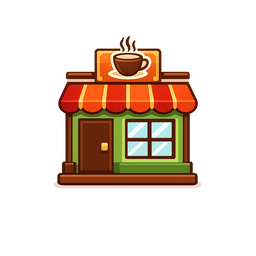
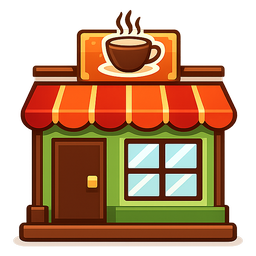
Fix coffee -1 visibility, add sawmill art, enlarge tile images
- Move the +/-1 float outside .tile so a just-spent coffee's exhausted
  dimming no longer fades its own -1 (the reason it was invisible)
- Add sawmill artwork; auto-crop both images to their opaque bbox so the
  building fills the tile, and render images at 94% (was 72%)

diff --git a/src/lib/Grid.svelte b/src/lib/Grid.svelte
@@ -78,11 +78,13 @@
               <span class="ricon">{badge.icon}</span>{stored}
             </div>
           {/if}
-
-          {#if badge && flashing}
-            <div class="plus" style="--rtint:{badge.tint}">{badge.delta}</div>
-          {/if}
         </div>
+
+        <!-- Float lives outside .tile so a just-spent coffee's dimming doesn't
+             also fade its own −1. -->
+        {#if badge && flashing}
+          <div class="plus" style="--rtint:{badge.tint}">{badge.delta}</div>
+        {/if}
       </div>
     {/each}
   </div>
@@ -150,6 +152,7 @@
     position: absolute;
     width: var(--cell);
     height: var(--cell);
+    container-type: size; /* lets the .plus float size itself via cqmin */
     will-change: transform;
   }
   .piece.hidden {

diff --git a/src/lib/BuildingIcon.svelte b/src/lib/BuildingIcon.svelte
@@ -20,8 +20,8 @@
     filter: drop-shadow(0 2px 3px rgba(0, 0, 0, 0.45));
   }
   img {
-    width: 72%;
-    height: 72%;
+    width: 94%;
+    height: 94%;
     object-fit: contain;
     filter: drop-shadow(0 2px 3px rgba(0, 0, 0, 0.45));
   }

diff --git a/src/lib/buildings.js b/src/lib/buildings.js
@@ -1,4 +1,5 @@
 import coffeeShopImg from './assets/coffee-shop.png';
+import sawmillImg from './assets/sawmill.png';
 
 // Building catalogue. The map key is the building's id.
 //   emoji       shown on the tile (see BuildingIcon)
@@ -9,7 +10,7 @@ import coffeeShopImg from './assets/coffee-shop.png';
 //   startStored initial (and per-turn recharge) charge count for `special` tiles
 export const BUILDINGS = {
   farm:    { name: 'Farm',    emoji: '🌾', image: null, tint: '#fbbf24', produces: 'food' },
-  sawmill: { name: 'Sawmill', emoji: '🪚', image: null, tint: '#c98a4b', produces: 'wood' },
+  sawmill: { name: 'Sawmill', emoji: '🪚', image: sawmillImg, tint: '#c98a4b', produces: 'wood' },
   mine:    { name: 'Mine',    emoji: '⛏️', image: null, tint: '#a78bfa', produces: 'stone' },
   lab:     { name: 'Lab',     emoji: '🔬', image: null, tint: '#38bdf8', produces: 'science' },
   pharma:  { name: 'Pharma',  emoji: '🏥', image: null, tint: '#f472b6', produces: 'medicine' },